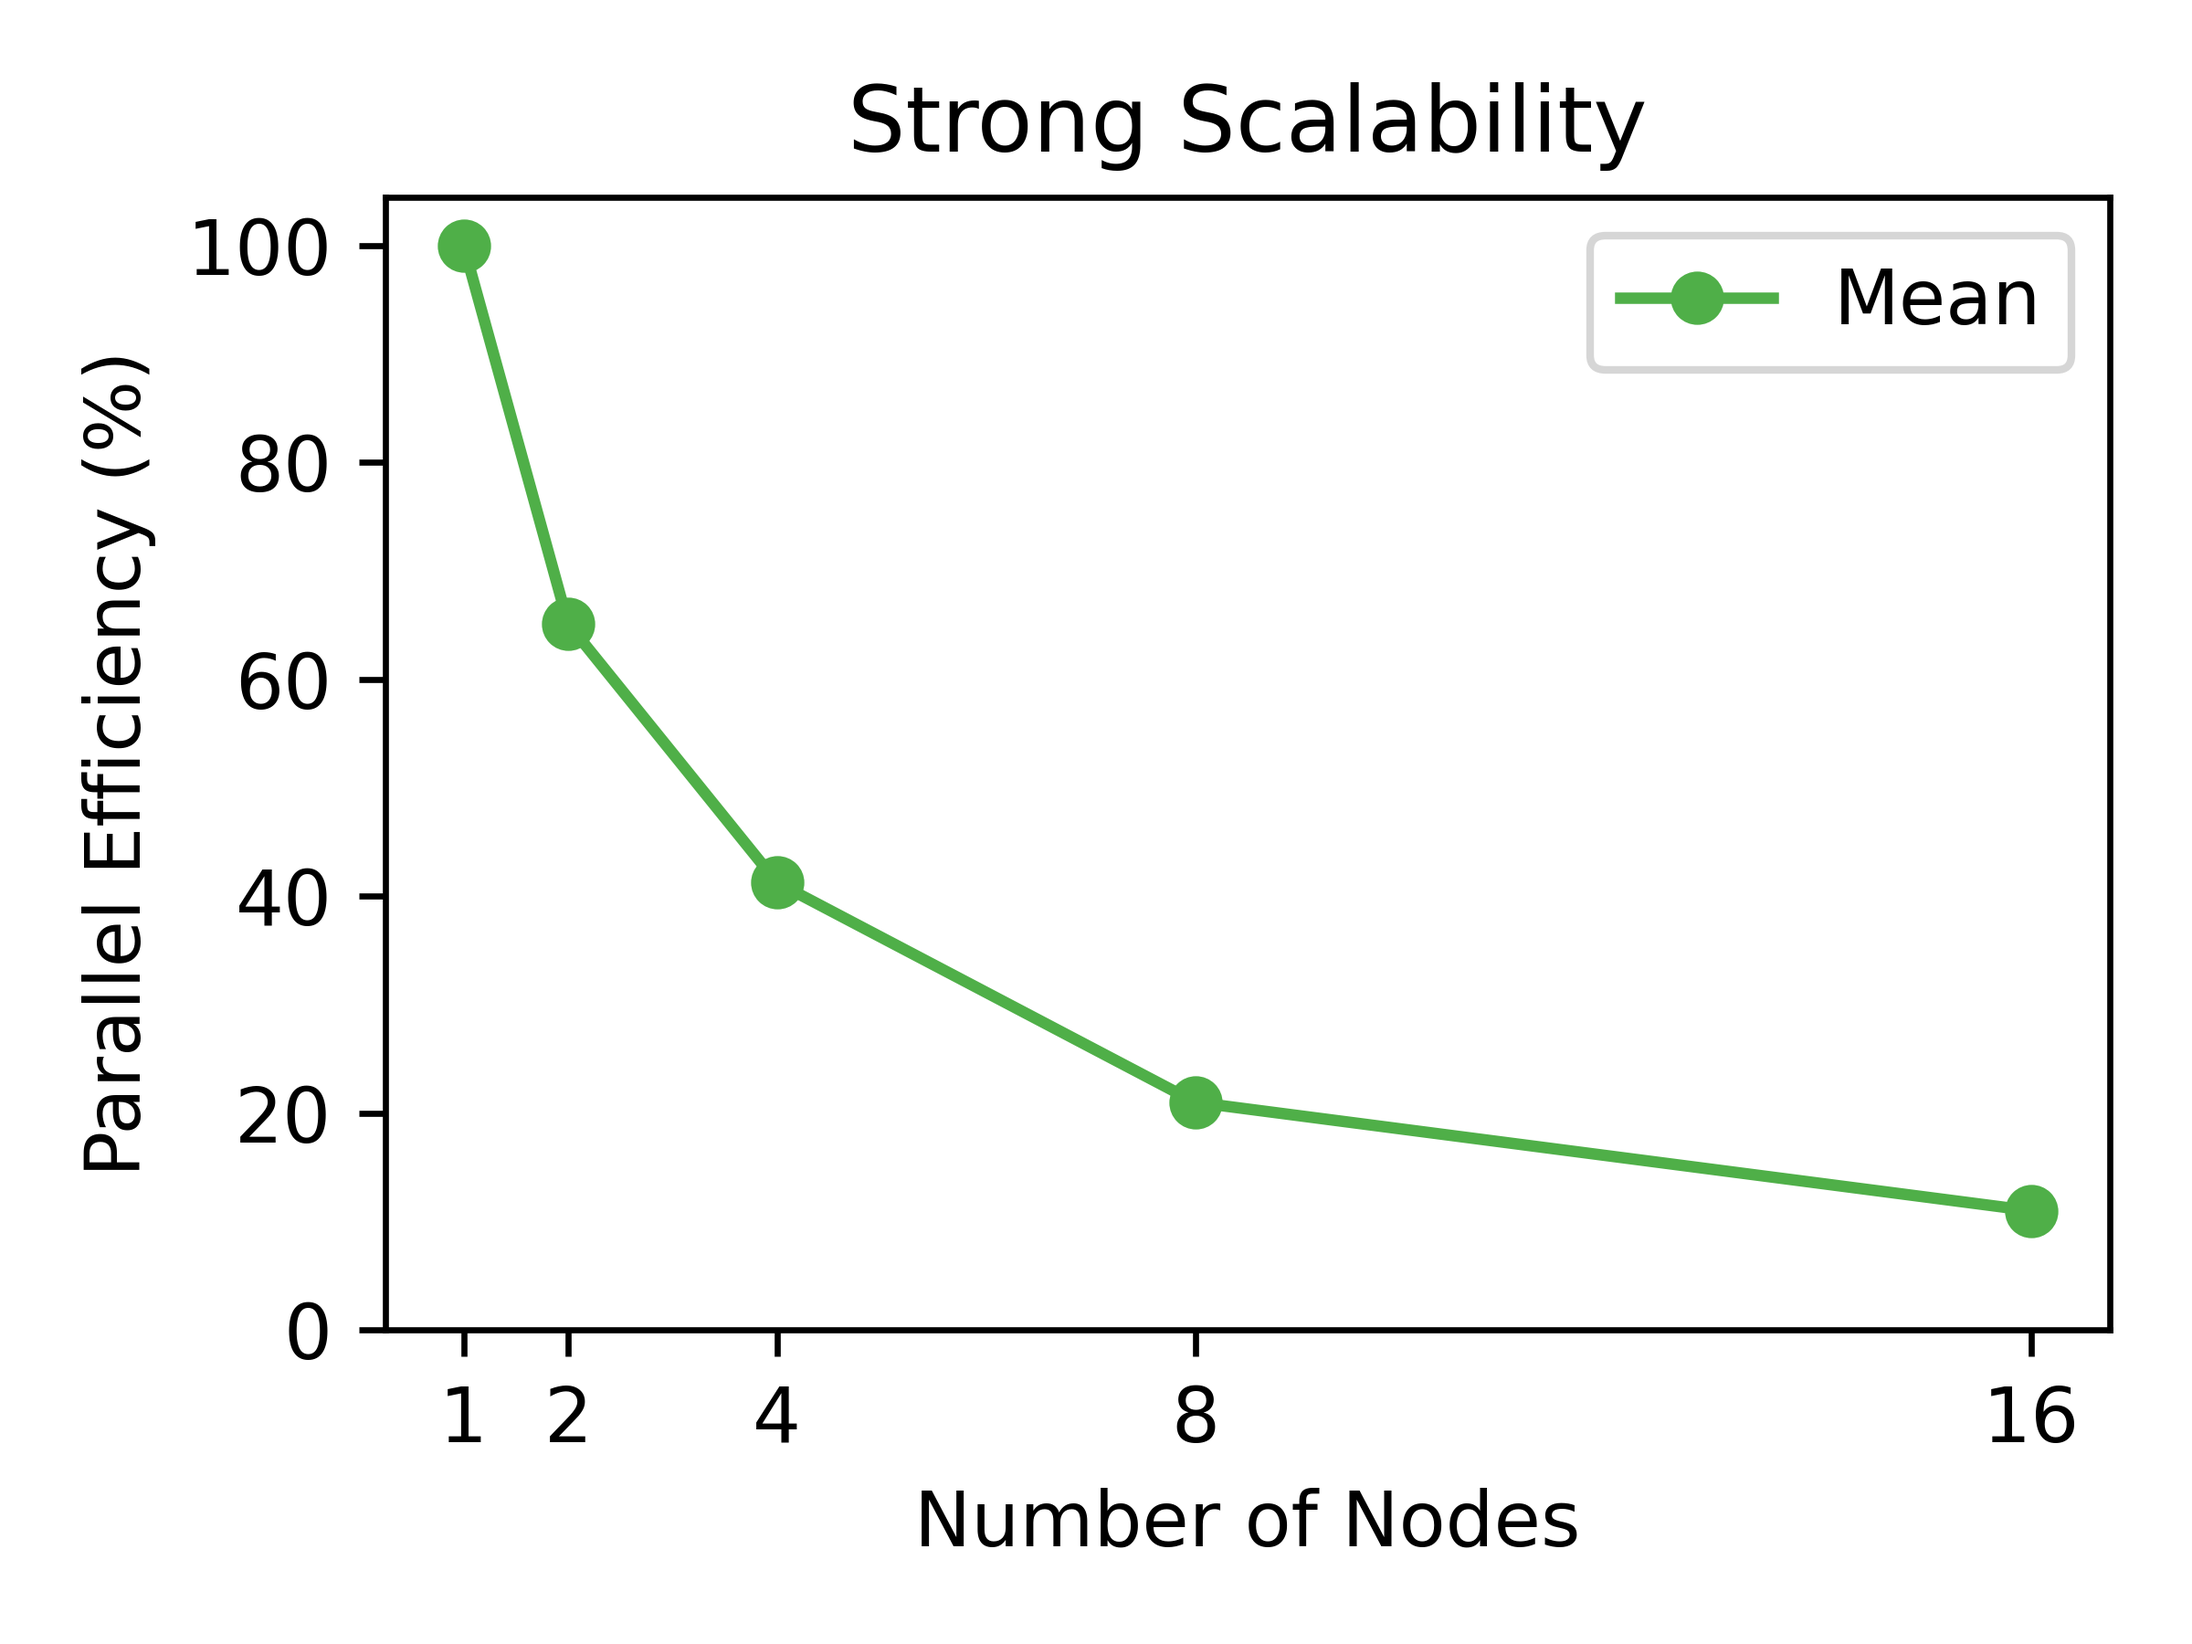
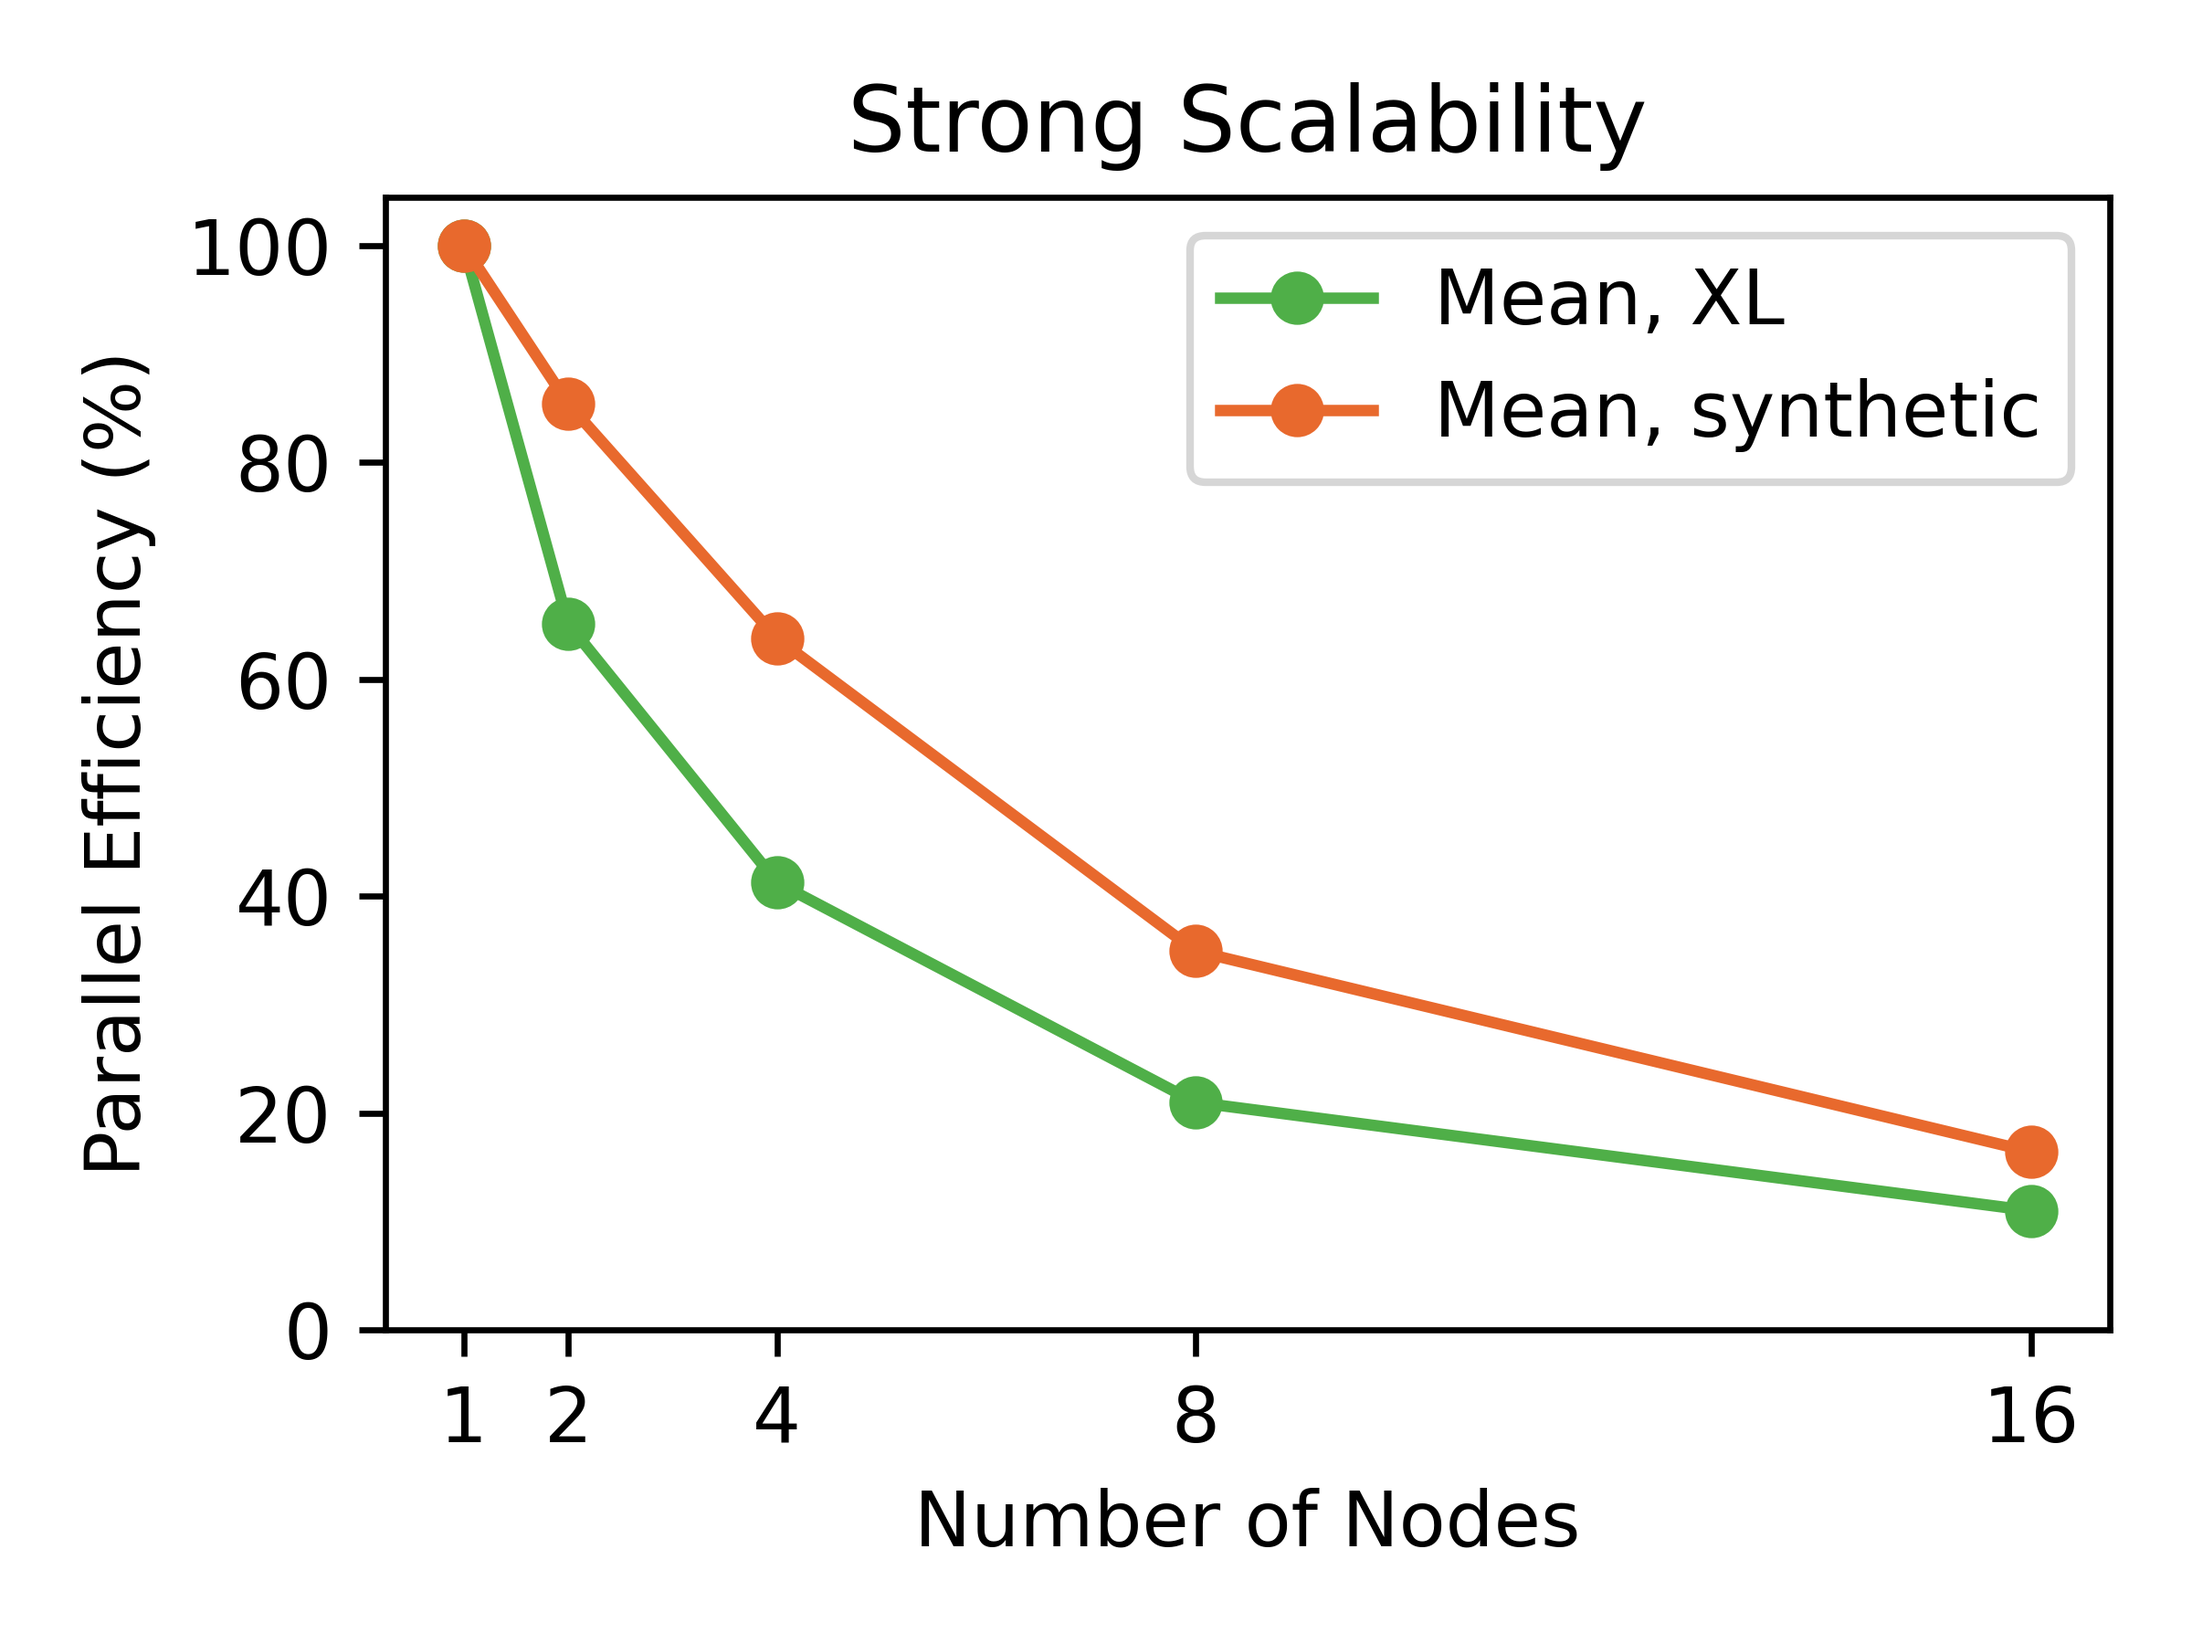
Add new synthetic experiment to parallel efficiency plot

diff --git a/plotting/plot_strong_scalability_percentage.py b/plotting/plot_strong_scalability_percentage.py
@@ -9,46 +9,45 @@ def amdahl(s, p):
 
 
 ### PARSE RESULT FILE ###
+def parse_results(json_file_path):
+    # Load JSON data
+    with open(json_file_path, 'r') as file:
+        data = json.load(file)
 
-# Path to your JSON file
-json_file_path = './DAS5/strong_scalability_f748803_XL/result_2023-12-26_12-49-59.json'
+    # Initialize a dictionary to hold computation times grouped by n_workers
+    computation_times = {}
 
-# Load JSON data
-with open(json_file_path, 'r') as file:
-    data = json.load(file)
+    # Iterate through the JSON data and group computation times by n_workers
+    for entry_key, entry_value in data.items():
+        n_workers = entry_value['experiment_config']['n_workers']
+        if isinstance(entry_value['result'], list):
+            for result in entry_value['result']:
+                computation_time = result['query_res']['computation_time']
 
-# Initialize a dictionary to hold computation times grouped by n_workers
-computation_times = {}
-
-# Iterate through the JSON data and group computation times by n_workers
-for entry_key, entry_value in data.items():
-    n_workers = entry_value['experiment_config']['n_workers']
-    if isinstance(entry_value['result'], list):
-        for result in entry_value['result']:
-            computation_time = result['query_res']['computation_time']
-
-            if n_workers not in computation_times:
-                computation_times[n_workers] = []
-            computation_times[n_workers].append(computation_time / 1000) # Milliseconds to seconds.
+                if n_workers not in computation_times:
+                    computation_times[n_workers] = []
+                computation_times[n_workers].append(computation_time / 1000) # Milliseconds to seconds.
 
 
-### PROCESS DATA ###
+    ### PROCESS DATA ###
 
-# Convert lists to NumPy arrays
-for n_workers in computation_times:
-    computation_times[n_workers] = np.array(computation_times[n_workers])
+    # Convert lists to NumPy arrays
+    for n_workers in computation_times:
+        computation_times[n_workers] = np.array(computation_times[n_workers])
 
-s_raw = {n_workers: np.array(times) for n_workers, times in computation_times.items()}
-s = list(s_raw.keys())
-n = [s_raw[key] for key in s]
+    s_raw = {n_workers: np.array(times) for n_workers, times in computation_times.items()}
+    s = list(s_raw.keys())
+    n = [s_raw[key] for key in s]
 
-n_means = np.mean(n, axis=1)
+    n_means = np.mean(n, axis=1)
 
-n_means_normalized = copy.deepcopy(n_means) # Normalized = parallel efficiency as a percentage.
-for i in range(len(n_means) - 1):
-    print(n_means_normalized[0], n_means_normalized[i + 1], s[i + 1])
-    n_means_normalized[i + 1] = n_means_normalized[0] / n_means_normalized[i + 1] / s[i + 1] * 100
-n_means_normalized[0] = 100 # [0] so 1 processor (the "sequential") is as a baseline of 100%.
+    n_means_normalized = copy.deepcopy(n_means) # Normalized = parallel efficiency as a percentage.
+    for i in range(len(n_means) - 1):
+        print(n_means_normalized[0], n_means_normalized[i + 1], s[i + 1])
+        n_means_normalized[i + 1] = n_means_normalized[0] / n_means_normalized[i + 1] / s[i + 1] * 100
+    n_means_normalized[0] = 100 # [0] so 1 processor (the "sequential") is as a baseline of 100%.
+
+    return (s, n, n_means, n_means_normalized)
 
 
 ### CREATE PLOT ###
@@ -58,7 +57,12 @@ colors = ['#0077B3', '#4FAF48', '#E8692D', '#8E4DA4', '#F2BA2F', '#D4CAC8', '#57
 
 plt.figure(figsize=(4, 3), dpi=600)
 
-plt.plot(s, n_means_normalized, color=colors[1], label="Mean", marker='o', linestyle='-')
+
+(s, n, n_means, n_means_normalized) = parse_results('./DAS5/strong_scalability_f748803_XL/result_2023-12-26_12-49-59.json')
+plt.plot(s, n_means_normalized, color=colors[1], label=f"Mean, XL", marker='o', linestyle='-')
+
+(s, n, n_means, n_means_normalized) = parse_results('./DAS5/strong_scalability_f748803_synthetic/result_2023-12-27_14-34-28.json')
+plt.plot(s, n_means_normalized, color=colors[2], label=f"Mean, synthetic", marker='o', linestyle='-')
 
 plt.legend()
 plt.title("Strong Scalability")
